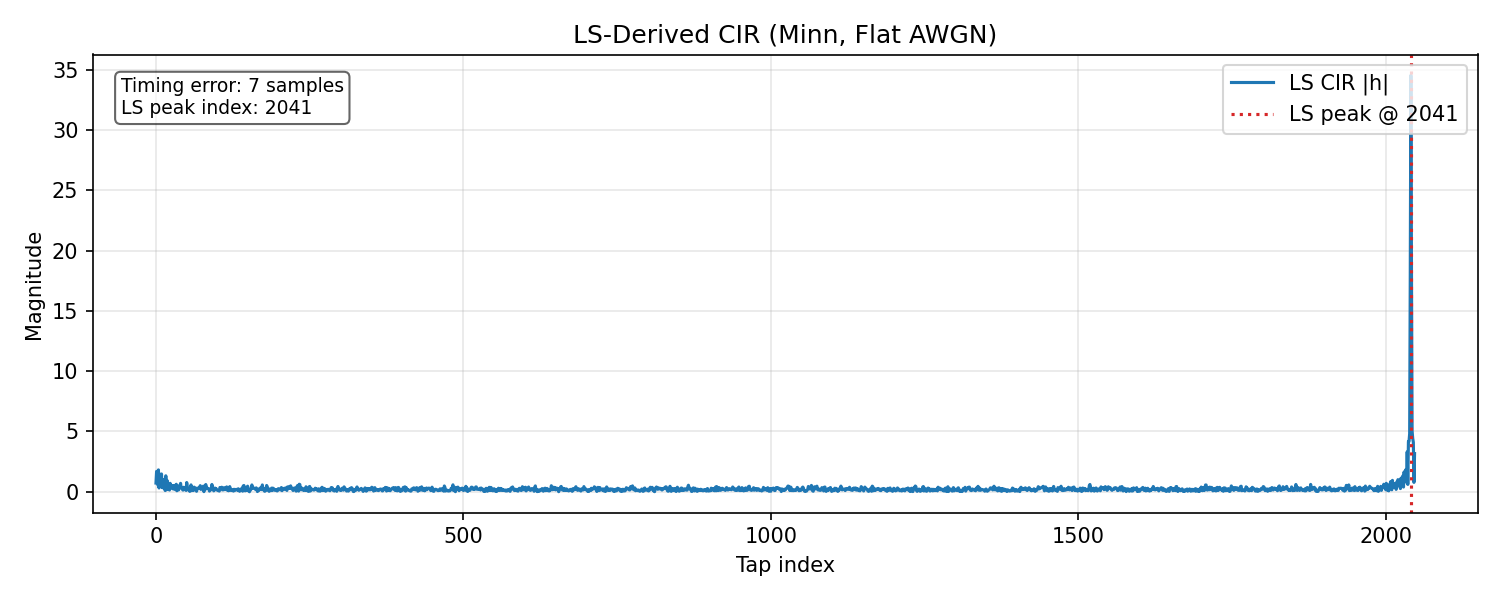
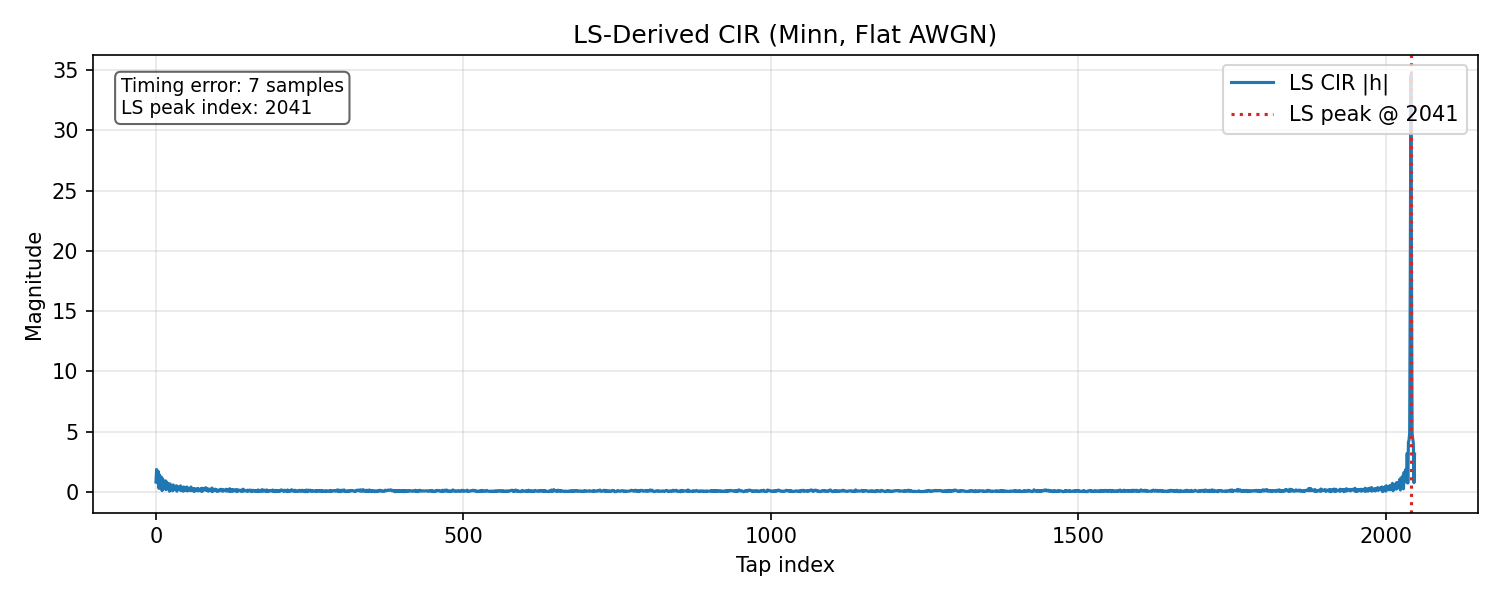
lower snr

Changed region(s): [[0.1227, 0.81, 0.92, 0.84], [0.092, 0.78, 0.1227, 0.81], [0.0307, 0.3, 0.0613, 0.33]]

diff --git a/minn.py b/minn.py
@@ -286,7 +286,7 @@ def _plot_ls_cir(
 
 
 # Detector and channel parameters (script-local)
-SNR_DB = 10.0
+SNR_DB = 30.0
 CFO_HZ = 1000.0
 SMOOTH_WIN = 16  # samples for smoothing M(d) before peak detection
 
